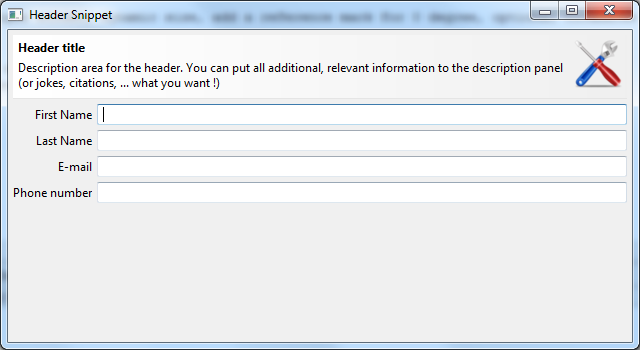
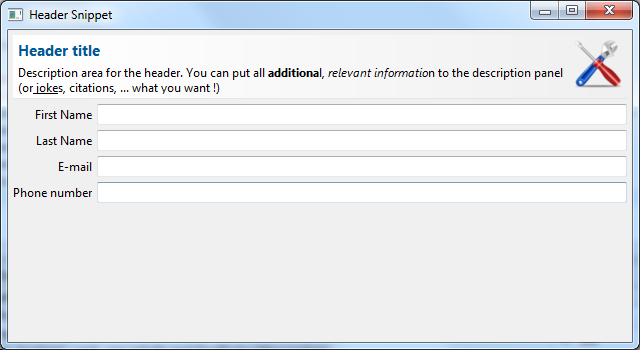
- Add html formating for description - New header - Add header's color

diff --git a/src/org/mihalis/opal/Header/Header.java b/src/org/mihalis/opal/Header/Header.java
@@ -2,6 +2,7 @@ package org.mihalis.opal.Header;
 
 import org.eclipse.swt.SWT;
 import org.eclipse.swt.SWTException;
+import org.eclipse.swt.custom.StyledText;
 import org.eclipse.swt.graphics.Color;
 import org.eclipse.swt.graphics.Font;
 import org.eclipse.swt.graphics.FontData;
@@ -36,6 +37,7 @@ public class Header extends Composite {
 	private String title;
 	private String description;
 	private Font headerFont;
+	private Color headerColor;
 
 	private Image oldImage;
 	private Color gradientEnd;
@@ -74,10 +76,13 @@ public class Header extends Composite {
 		if (fontData != null && fontData.length > 0) {
 			final FontData fd = fontData[0];
 			fd.setStyle(SWT.BOLD);
+			fd.setHeight(fd.getHeight() + 2);
 			this.headerFont = new Font(getDisplay(), fd);
 		} else {
 			this.headerFont = null;
 		}
+
+		this.headerColor = new Color(getDisplay(), 0, 88, 150);
 
 		this.gradientEnd = new Color(this.getDisplay(), 239, 239, 239);
 		this.gradientStart = new Color(this.getDisplay(), 255, 255, 255);
@@ -93,6 +98,7 @@ public class Header extends Composite {
 		this.addListener(SWT.Dispose, new Listener() {
 			@Override
 			public void handleEvent(final Event event) {
+				SWTGraphicUtil.dispose(Header.this.headerColor);
 				SWTGraphicUtil.dispose(Header.this.headerFont);
 				SWTGraphicUtil.dispose(Header.this.oldImage);
 				SWTGraphicUtil.dispose(Header.this.gradientEnd);
@@ -146,7 +152,7 @@ public class Header extends Composite {
 		final Label labelTitle = new Label(this, SWT.NONE);
 		labelTitle.setLayoutData(new GridData(GridData.FILL, GridData.BEGINNING, true, false));
 		labelTitle.setFont(this.headerFont);
-		labelTitle.setForeground(getForeground());
+		labelTitle.setForeground(getHeaderColor());
 		labelTitle.setText(this.title);
 	}
 
@@ -169,11 +175,12 @@ public class Header extends Composite {
 	 * Create the description
 	 */
 	private void createDescription() {
-		final Label labelDescription = new Label(this, SWT.WRAP);
+		final StyledText labelDescription = new StyledText(this, SWT.WRAP);
 		labelDescription.setLayoutData(new GridData(GridData.FILL, GridData.FILL, true, true));
 		labelDescription.setFont(getFont());
 		labelDescription.setForeground(getForeground());
-		labelDescription.setText(this.description);
+		labelDescription.setText("<html><body>" + this.description + "</body></html>");
+		SWTGraphicUtil.applyHTMLFormating(labelDescription);
 	}
 
 	/**
@@ -215,7 +222,7 @@ public class Header extends Composite {
 	/**
 	 * Returns the receiver's description if it has one, or null if it does not.
 	 * 
-	 * @return the receiver's image
+	 * @return the receiver's description if it has one, or null if it does not
 	 * 
 	 * @exception SWTException <ul>
 	 *                <li>ERROR_WIDGET_DISPOSED - if the receiver has been
@@ -232,7 +239,7 @@ public class Header extends Composite {
 	/**
 	 * Returns the receiver's gradient end color.
 	 * 
-	 * @return the receiver's image
+	 * @return the receiver's gradient end color
 	 * 
 	 * @exception SWTException <ul>
 	 *                <li>ERROR_WIDGET_DISPOSED - if the receiver has been
@@ -249,7 +256,7 @@ public class Header extends Composite {
 	/**
 	 * Returns the receiver's gradient start color.
 	 * 
-	 * @return the receiver's image
+	 * @return the receiver's gradient start color
 	 * 
 	 * @exception SWTException <ul>
 	 *                <li>ERROR_WIDGET_DISPOSED - if the receiver has been
@@ -264,9 +271,26 @@ public class Header extends Composite {
 	}
 
 	/**
+	 * Returns the header's color.
+	 * 
+	 * @return the header's color
+	 * 
+	 * @exception SWTException <ul>
+	 *                <li>ERROR_WIDGET_DISPOSED - if the receiver has been
+	 *                disposed</li>
+	 *                <li>ERROR_THREAD_INVALID_ACCESS - if not called from the
+	 *                thread that created the receiver</li>
+	 *                </ul>
+	 */
+	public Color getHeaderColor() {
+		checkWidget();
+		return this.headerColor;
+	}
+
+	/**
 	 * Returns the header's font.
 	 * 
-	 * @return the receiver's image
+	 * @return the header's font.
 	 * 
 	 * @exception SWTException <ul>
 	 *                <li>ERROR_WIDGET_DISPOSED - if the receiver has been
@@ -283,7 +307,7 @@ public class Header extends Composite {
 	/**
 	 * Returns the receiver's image if it has one, or null if it does not.
 	 * 
-	 * @return the receiver's image
+	 * @return the receiver's image if it has one, or null if it does not
 	 * 
 	 * @exception SWTException <ul>
 	 *                <li>ERROR_WIDGET_DISPOSED - if the receiver has been
@@ -300,7 +324,7 @@ public class Header extends Composite {
 	/**
 	 * Returns the receiver's separator color.
 	 * 
-	 * @return the receiver's image
+	 * @return the receiver's separator color
 	 * 
 	 * @exception SWTException <ul>
 	 *                <li>ERROR_WIDGET_DISPOSED - if the receiver has been
@@ -317,7 +341,7 @@ public class Header extends Composite {
 	/**
 	 * Returns the receiver's title if it has one, or null if it does not.
 	 * 
-	 * @return the receiver's image
+	 * @return the receiver's title if it has one, or null if it does not
 	 * 
 	 * @exception SWTException <ul>
 	 *                <li>ERROR_WIDGET_DISPOSED - if the receiver has been
@@ -335,7 +359,7 @@ public class Header extends Composite {
 	 * Sets the receiver's description to the argument, which may be null
 	 * indicating that no description should be displayed.
 	 * 
-	 * @param image the image to display on the receiver (may be null)
+	 * @param description the description of the header (may be null)
 	 * 
 	 * @exception IllegalArgumentException <ul>
 	 *                <li>ERROR_INVALID_ARGUMENT - if the image has been
@@ -356,7 +380,7 @@ public class Header extends Composite {
 	/**
 	 * Sets the receiver's gradient end color.
 	 * 
-	 * @param image the image to display on the receiver (may be null)
+	 * @param gradientEnd the receiver's gradient end color
 	 * 
 	 * @exception IllegalArgumentException <ul>
 	 *                <li>ERROR_INVALID_ARGUMENT - if the image has been
@@ -377,7 +401,7 @@ public class Header extends Composite {
 	/**
 	 * Sets the receiver's gradient start color.
 	 * 
-	 * @param image the image to display on the receiver (may be null)
+	 * @param gradientStart the receiver's gradient start color
 	 * 
 	 * @exception IllegalArgumentException <ul>
 	 *                <li>ERROR_INVALID_ARGUMENT - if the image has been
@@ -396,9 +420,30 @@ public class Header extends Composite {
 	}
 
 	/**
-	 * Sets the receiver's header font to the argument.
+	 * Sets the receiver's header color.
 	 * 
-	 * @param image the image to display on the receiver (may be null)
+	 * @param headerColor the receiver's header color
+	 * 
+	 * @exception IllegalArgumentException <ul>
+	 *                <li>ERROR_INVALID_ARGUMENT - if the image has been
+	 *                disposed</li>
+	 *                </ul>
+	 * @exception SWTException <ul>
+	 *                <li>ERROR_WIDGET_DISPOSED - if the receiver has been
+	 *                disposed</li>
+	 *                <li>ERROR_THREAD_INVALID_ACCESS - if not called from the
+	 *                thread that created the receiver</li>
+	 *                </ul>
+	 */
+	public void setHeaderColor(final Color headerColor) {
+		checkWidget();
+		this.headerColor = headerColor;
+	}
+
+	/**
+	 * Sets the receiver's header font.
+	 * 
+	 * @param headerFont the receiver's header font
 	 * 
 	 * @exception IllegalArgumentException <ul>
 	 *                <li>ERROR_INVALID_ARGUMENT - if the image has been
@@ -441,7 +486,7 @@ public class Header extends Composite {
 	/**
 	 * Sets the receiver's separator color.
 	 * 
-	 * @param image the image to display on the receiver (may be null)
+	 * @param separatorColor the receiver's separator color
 	 * 
 	 * @exception IllegalArgumentException <ul>
 	 *                <li>ERROR_INVALID_ARGUMENT - if the image has been
@@ -462,7 +507,7 @@ public class Header extends Composite {
 	 * Sets the receiver's title to the argument, which may be null indicating
 	 * that no title should be displayed.
 	 * 
-	 * @param image the image to display on the receiver (may be null)
+	 * @param title the title
 	 * 
 	 * @exception IllegalArgumentException <ul>
 	 *                <li>ERROR_INVALID_ARGUMENT - if the image has been

diff --git a/tests/org/mihalis/opal/Header/HeaderSnippet.java b/tests/org/mihalis/opal/Header/HeaderSnippet.java
@@ -42,7 +42,7 @@ public class HeaderSnippet {
 		final Header header = new Header(shell, SWT.NONE);
 		header.setTitle("Header title");
 		header.setImage(icon);
-		header.setDescription("Description area for the header. You can put all additional, relevant information to the description panel (or jokes, citations, ... what you want !)");
+		header.setDescription("Description area for the header. You can put all <b>additional</b>, <i>relevant information</i> to the description panel (or <u>jokes</u>, citations, ... what you want !)");
 		header.setLayoutData(new GridData(GridData.FILL, GridData.FILL, true, false, 2, 1));
 
 		createRow(shell, "First Name");
